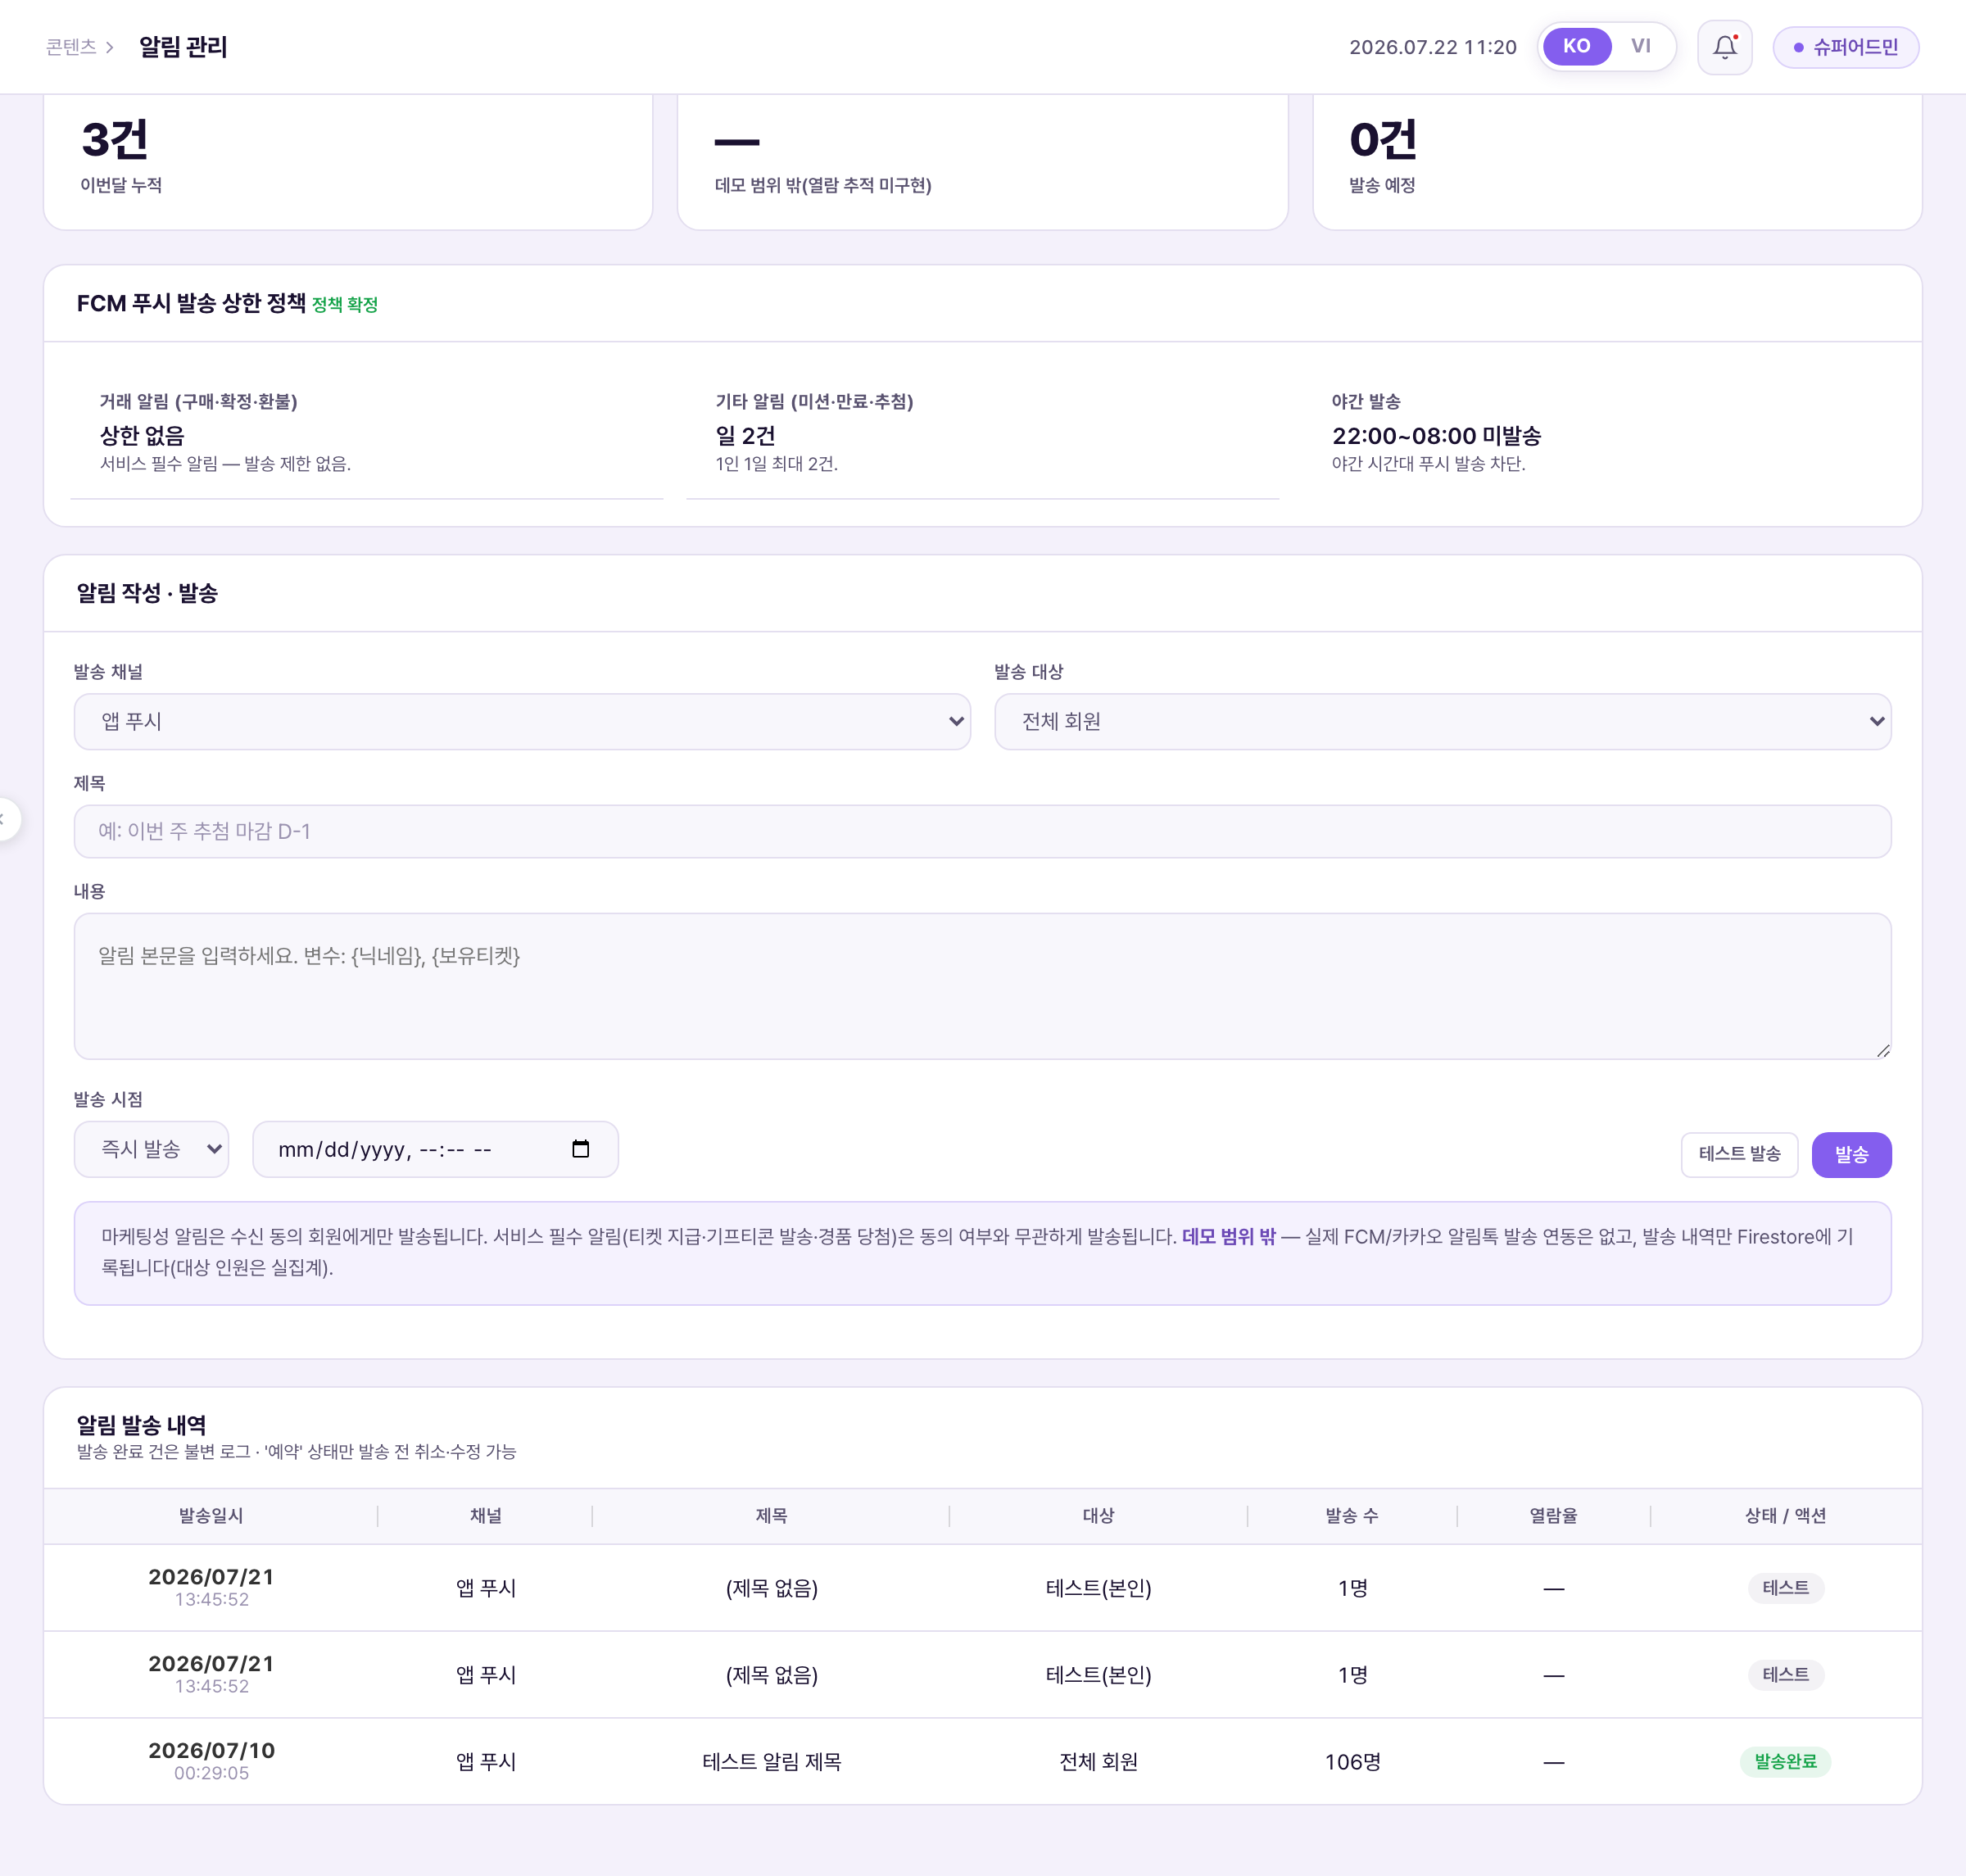
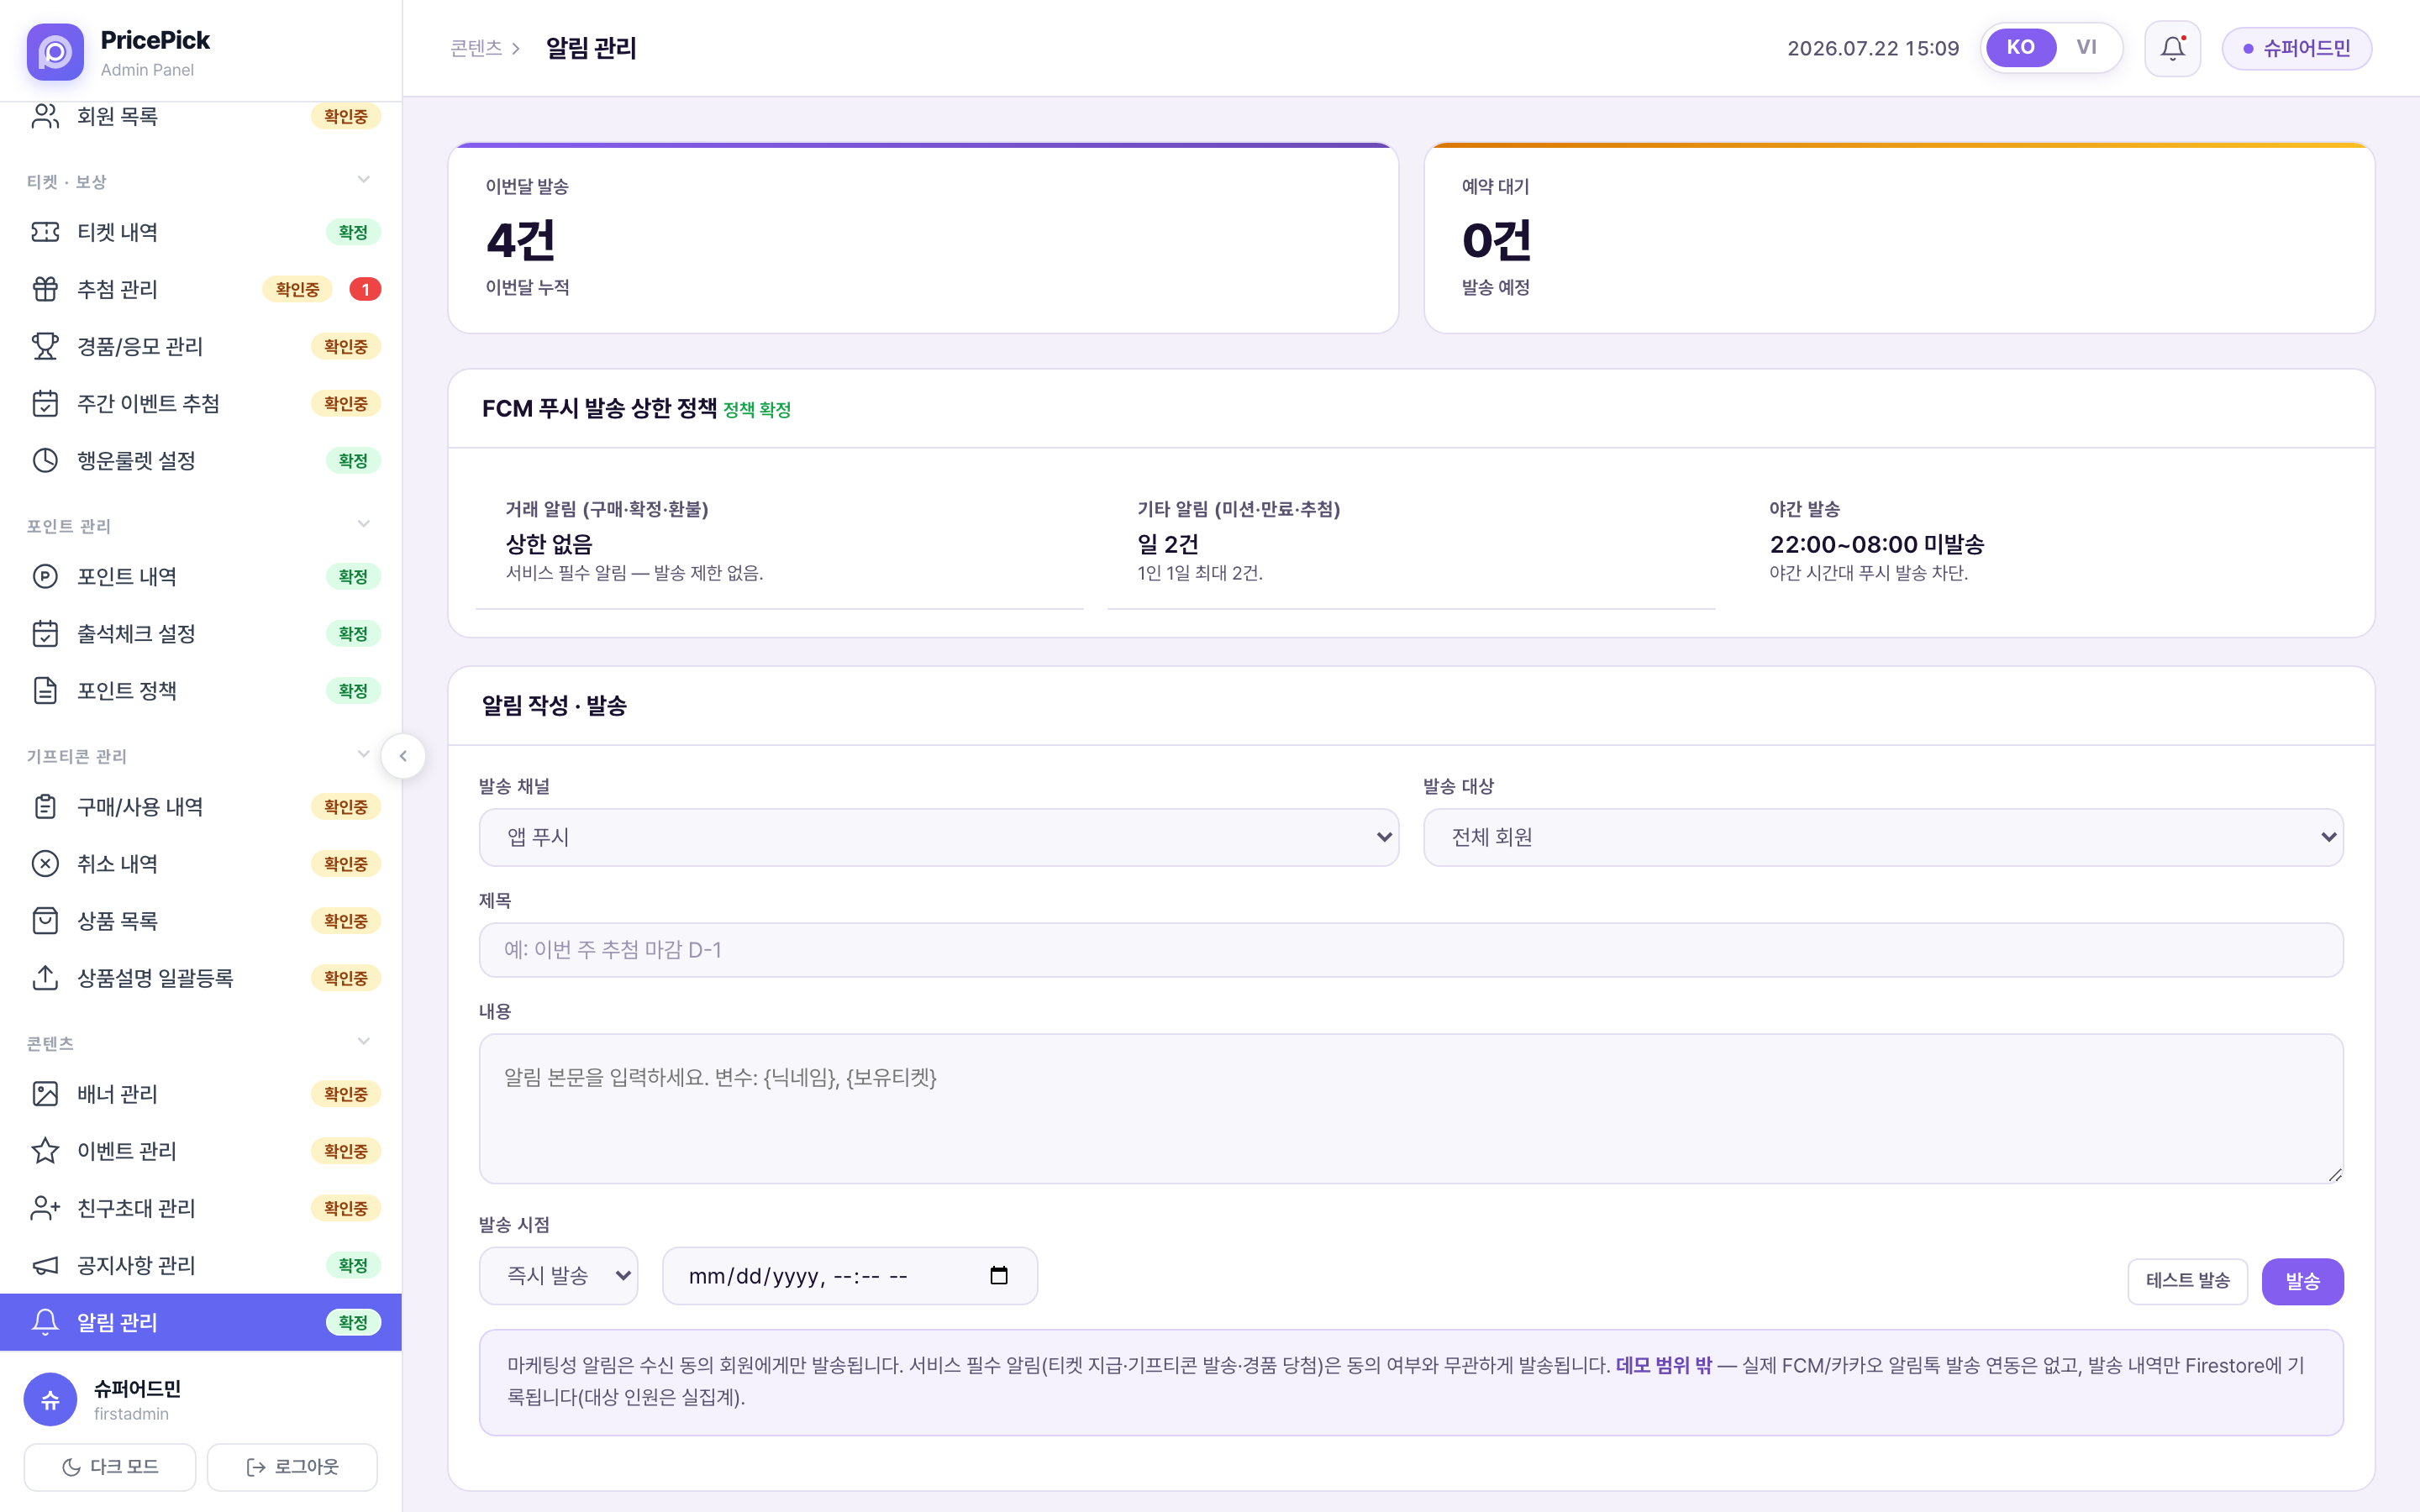
CMS notifications: test-send preview popup, remove open-rate stat card
- cms.html: add push-card-style preview modal shown when clicking
  테스트 발송 (title/body from the actual form fields), existing
  test-history record-keeping unchanged; remove 평균 열람율 stat card,
  remaining 2 cards laid out in a 2-column grid
- cms-storyboard/notifications.html updated to current-tense match:
  documents the new preview popup, rewrites the stale open-rate callout
  (card no longer exists on screen), re-captures both screenshots
  against the live demo (list view + preview popup)
- devqa/cms-harry-20260722.html: new Harry answer doc for these 2
  follow-up questions, registered in devqa/index.html (data-dev=harry)

diff --git a/devqa/cms-harry-20260722.html b/devqa/cms-harry-20260722.html
@@ -1,0 +1,75 @@
+<!DOCTYPE html><html lang="ko"><head><meta charset="utf-8"><meta name="viewport" content="width=device-width,initial-scale=1"><title>PricePick CMS 답변 · Harry · 2026-07-22</title><style>:root{--pp:#845EEE;--pp-d:#5b39b8;--pp-l:#efe9fd;--ink1:#1f2330;--ink2:#3f4658;--ink3:#8b93a7;--line:#e9e7f2;--bg:#faf9fe;--ok:#2f9e9e;--ck:#e8943a;--hold:#6b7280}
+*{box-sizing:border-box;margin:0;padding:0} body{font-family:-apple-system,'Apple SD Gothic Neo',Pretendard,sans-serif;color:var(--ink1);background:var(--bg);line-height:1.6}
+.wrap{max-width:940px;margin:0 auto;padding:0 22px 80px}
+header{background:linear-gradient(120deg,#845EEE,#6a45d4);color:#fff;padding:28px 0 24px;position:relative}
+.htitle{font-size:23px;font-weight:800} .hsub{font-size:13px;opacity:.85;margin-top:6px}
+.meta{display:flex;gap:10px;flex-wrap:wrap;margin:20px 0 6px;font-size:12.5px}
+.chip{background:#fff;border:1px solid var(--line);border-radius:20px;padding:5px 13px;color:var(--ink2)}
+h2.grp{font-size:14px;color:var(--pp-d);margin:24px 0 10px;padding-bottom:6px;border-bottom:2px solid var(--pp-l)}
+.qa{background:#fff;border:1px solid var(--line);border-radius:14px;padding:16px 18px;margin-bottom:12px}
+.qrow{display:flex;gap:10px;align-items:flex-start}
+.qno{font-weight:800;color:var(--pp);font-variant-numeric:tabular-nums;font-size:13px;background:var(--pp-l);padding:2px 8px;border-radius:6px;white-space:nowrap}
+.qtxt{font-weight:500;font-size:14px;color:var(--ink1);flex:1;white-space:pre-wrap}
+.bd{font-size:10.5px;font-weight:800;padding:3px 9px;border-radius:20px;white-space:nowrap}
+.bd.ok{background:#e6f5f5;color:var(--ok)}
+.bd.ck{background:#fdf1e3;color:var(--ck)}
+.bd.hold{background:#eef0f4;color:var(--hold)}
+.arow{display:flex;gap:10px;margin-top:11px;padding-top:11px;border-top:1px dashed var(--line)}
+.alabel{font-size:10.5px;font-weight:800;color:var(--ink3);background:var(--bg);border:1px solid var(--line);padding:2px 8px;border-radius:6px;height:fit-content;white-space:nowrap}
+.atxt{font-size:13.3px;color:var(--ink2);white-space:pre-wrap}
+.atxt b{color:var(--ink1)}
+.ref-box{background:#f4f5f8;border-left:3px solid #8b93a7;border-radius:8px;padding:9px 13px;margin-top:9px;font-size:12px;color:#3f4658}
+.ref-box .ref-label{font-size:10px;font-weight:800;color:#8b93a7;letter-spacing:.06em;margin-bottom:4px;display:block}
+.foot{margin-top:24px;font-size:11.5px;color:var(--ink3)}
+.vi{display:none}
+#langsw{position:absolute;opacity:0;pointer-events:none}
+#langsw:checked ~ header .ko, #langsw:checked ~ .wrap .ko{display:none}
+#langsw:checked ~ header .vi, #langsw:checked ~ .wrap .vi{display:inline}
+.langtog{display:inline-flex;background:rgba(255,255,255,.18);border-radius:20px;padding:3px;gap:2px;cursor:pointer;position:absolute;top:20px;right:22px}
+.langtog .seg{font-size:12px;font-weight:700;color:#fff;padding:4px 13px;border-radius:16px;opacity:.7}
+.langtog .sk{background:#fff;color:var(--pp-d);opacity:1}
+#langsw:checked ~ header .langtog .sk{background:none;color:#fff;opacity:.7}
+#langsw:checked ~ header .langtog .sv{background:#fff;color:var(--pp-d);opacity:1}
+.srclink{display:inline-block;margin-top:12px;font-size:12.5px;color:#fff;background:rgba(255,255,255,.18);padding:6px 13px;border-radius:8px;text-decoration:none;font-weight:600;cursor:pointer}
+.thumbs{display:flex;gap:8px;flex-wrap:wrap;margin-top:11px}
+.q-thumb{display:inline-flex;flex-direction:column;gap:5px;padding:6px;background:var(--bg);border:1px solid var(--line);border-radius:10px;cursor:zoom-in;max-width:200px;text-align:left}
+.q-thumb img{width:100%;border-radius:6px;display:block;border:1px solid var(--line)}
+.q-thumb-cap{font-size:10.5px;color:var(--ink3);font-weight:700}
+.lb{display:none;position:fixed;inset:0;z-index:200}
+.lb.open{display:block}
+.lb-bg{position:absolute;inset:0;background:rgba(31,35,48,.78)}
+.lb-card{position:relative;max-width:92vw;margin:6vh auto 0;display:flex;flex-direction:column;align-items:center}
+.lb-img{max-width:92vw;max-height:80vh;border-radius:12px;box-shadow:0 24px 70px rgba(0,0,0,.5);background:#fff}
+.lb-x{position:absolute;top:-44px;right:0;background:rgba(255,255,255,.2);border:none;color:#fff;width:34px;height:34px;border-radius:50%;font-size:22px;line-height:1;cursor:pointer;display:flex;align-items:center;justify-content:center}
+</style></head><body>
+<input type="checkbox" id="langsw">
+<header><label class="langtog" for="langsw"><span class="seg sk">KO</span><span class="seg sv">VI</span></label>
+<div class="wraphdr" style="max-width:940px;margin:0 auto;padding:0 22px"><div class="htitle"><span class="i18n"><span class="ko">PricePick CMS 답변 · Harry · 2026-07-22</span><span class="vi">Trả lời CMS PricePick · Harry · 2026-07-22</span></span></div>
+<div class="hsub"><span class="i18n"><span class="ko">Harry · CMS · 알림 관리 화면 후속 질문 2건 — 답변 KO/VI</span><span class="vi">Harry · CMS · 2 câu hỏi tiếp theo về màn Quản lý thông báo — Trả lời KO/VI</span></span></div>
+<a class="srclink" href="https://app.notion.com/p/PricePick-C-u-h-i-2026-07-22-2-3a586f66c22480a0aea6e09d6eca2777" target="_blank" rel="noopener"><span class="i18n"><span class="ko">원문 질문 보기 (Notion) ↗</span><span class="vi">Xem câu hỏi gốc (Notion) ↗</span></span></a></div></header>
+<div class="wrap"><div class="meta"><span class="chip"><span class="i18n"><span class="ko">질문 2건</span><span class="vi">2 câu hỏi</span></span></span><span class="chip"><span class="i18n"><span class="ko">확정 답변 2</span><span class="vi">Đã chốt 2</span></span></span><span class="chip"><span class="i18n"><span class="ko">근거: 김반장님 확정</span><span class="vi">Căn cứ: Mr Mark đã chốt</span></span></span><span class="chip"><span class="i18n"><span class="ko">질문 문구는 요약 · 원문은 노션 링크</span><span class="vi">Câu hỏi ở đây là bản tóm tắt · nguyên văn xem link Notion</span></span></span></div>
+
+<!-- ==================== Q1 : 테스트 발송 미리보기 팝업 ==================== -->
+<h2 class="grp"><span class="i18n"><span class="ko">1. 테스트 발송 — 미리보기 UI 제안</span><span class="vi">1. Gửi thử — Đề xuất UI xem trước</span></span></h2>
+
+<div class="qa"><div class="qrow"><span class="qno">1</span><div class="qtxt"><span class="i18n"><span class="ko">테스트 발송한 내용을 관리자가 확인할 수 있는 CMS 팝업 UI가 필요하지 않을까요?</span><span class="vi">Có cần một popup UI trên CMS để admin xem lại nội dung đã gửi thử không?</span></span></div><span class="bd ok"><span class="i18n"><span class="ko">확정</span><span class="vi">Đã chốt</span></span></span></div>
+<div class="thumbs"><button class="q-thumb" type="button" onclick="lbOpen('/devqa/assets/20260722-harry-2/harry-q1-notif-mgmt.png','알림 관리 화면 · 평균 오픈율 카드·테스트 발송 버튼')"><img src="/devqa/assets/20260722-harry-2/harry-q1-notif-mgmt.png" alt="알림 관리 화면 평균 오픈율 카드·테스트 발송 버튼 강조" onerror="this.closest('.q-thumb').style.display='none'"><span class="q-thumb-cap"><span class="i18n"><span class="ko">알림 관리 화면 · 평균 오픈율 카드·테스트 발송 버튼</span><span class="vi">Màn Quản lý thông báo · Thẻ tỷ lệ mở·nút gửi thử</span></span></span></button></div>
+<div class="arow"><span class="alabel"><span class="i18n"><span class="ko">답변</span><span class="vi">Trả lời</span></span></span><div class="atxt"><span class="i18n"><span class="ko">수용합니다. 테스트 발송 버튼을 클릭하면 입력한 제목·내용이 <b>실제 수신 모습(푸시 카드 형태)</b>으로 표시되는 미리보기 팝업이 CMS에 뜹니다. 발송 이력에 남는 '테스트' 기록은 그대로 유지됩니다. 실기기로의 실제 발송은 정식 FCM 연동 이후에 붙는 부분입니다.</span><span class="vi">Chấp nhận đề xuất. Khi bấm nút gửi thử, CMS hiện popup xem trước cho thấy tiêu đề·nội dung đã nhập <b>ở dạng hiển thị thực tế (dạng thẻ push)</b>. Bản ghi 'Test' trong lịch sử gửi vẫn được giữ nguyên như cũ. Gửi thật đến thiết bị sẽ được nối sau khi tích hợp FCM chính thức.</span></span>
+<div class="ref-box"><span class="ref-label"><span class="i18n"><span class="ko">[참조]</span><span class="vi">[Tham khảo]</span></span></span><span class="i18n"><span class="ko">화면 반영: CMS 원본(cms.html)·데모(pricepick-demo/cms) 양쪽 '알림 관리' 화면의 '테스트 발송' 버튼에 미리보기 팝업(KO/VI) 구현 완료.</span><span class="vi">Đã phản ánh lên màn hình: đã triển khai popup xem trước (KO/VI) ở nút 'Gửi thử' trên màn Quản lý thông báo, cả CMS gốc (cms.html) lẫn demo (pricepick-demo/cms).</span></span></div></div></div></div>
+
+<!-- ==================== Q2 : 평균 오픈율 통계 ==================== -->
+<h2 class="grp"><span class="i18n"><span class="ko">2. "평균 오픈율" 통계란</span><span class="vi">2. Thống kê "Tỷ lệ mở trung bình" là gì</span></span></h2>
+
+<div class="qa"><div class="qrow"><span class="qno">2</span><div class="qtxt"><span class="i18n"><span class="ko">상단의 "평균 오픈율" 통계 카드는 무엇을 뜻하나요?</span><span class="vi">Thẻ thống kê "Tỷ lệ mở trung bình" ở trên nghĩa là gì?</span></span></div><span class="bd ok"><span class="i18n"><span class="ko">확정</span><span class="vi">Đã chốt</span></span></span></div>
+<div class="arow"><span class="alabel"><span class="i18n"><span class="ko">답변</span><span class="vi">Trả lời</span></span></span><div class="atxt"><span class="i18n"><span class="ko">발송한 푸시를 수신자가 <b>실제로 열어본 비율의 평균</b>을 뜻하는 지표입니다. 다만 오픈 추적은 1단계 구현 범위에서 제외하며, 혼란 방지를 위해 이 통계 카드는 화면에서 제거합니다(추후 열람 추적 기능이 들어오면 다시 추가).</span><span class="vi">Đây là chỉ số thể hiện <b>tỷ lệ trung bình người nhận thực sự mở</b> push đã gửi. Tuy nhiên theo dõi lượt mở nằm ngoài phạm vi triển khai giai đoạn 1, nên để tránh gây nhầm lẫn, thẻ thống kê này được bỏ khỏi màn hình (sẽ thêm lại khi có chức năng theo dõi lượt mở).</span></span>
+<div class="ref-box"><span class="ref-label"><span class="i18n"><span class="ko">[참조]</span><span class="vi">[Tham khảo]</span></span></span><span class="i18n"><span class="ko">화면 반영: CMS 원본·데모 양쪽에서 "평균 열람율" 카드 제거, 남은 통계 카드("이번달 발송"·"예약 대기") 2열 레이아웃으로 정리 완료. 발송 내역 표의 "열람율" 열은 그대로 유지(항상 "—" 표시, 별도 요청 없어 손대지 않음).</span><span class="vi">Đã phản ánh lên màn hình: bỏ thẻ "Tỷ lệ xem trung bình" ở cả CMS gốc lẫn demo, 2 thẻ thống kê còn lại ("Gửi tháng này"·"Đặt lịch chờ") đã sắp lại bố cục 2 cột. Cột "Tỷ lệ xem" trong bảng lịch sử gửi vẫn giữ nguyên (luôn hiện "—", không có yêu cầu riêng nên chưa động vào).</span></span></div></div></div></div>
+
+<div class="foot"><span class="i18n"><span class="ko">PricePick · CMS 답변 · Harry · 2026-07-22 · 확정 2 / 확인 필요 0</span><span class="vi">PricePick · Trả lời CMS · Harry · 2026-07-22 · Đã chốt 2 / Cần xác nhận 0</span></span></div></div>
+<div class="lb" id="lightbox" role="dialog" aria-modal="true" aria-label="첨부 이미지"><div class="lb-bg" data-lbclose></div><div class="lb-card"><button class="lb-x" type="button" data-lbclose aria-label="Close">&times;</button><img class="lb-img" id="lb-img" src="" alt=""></div></div>
+<script>
+function lbOpen(src,alt){var lb=document.getElementById('lightbox');var im=document.getElementById('lb-img');im.src=src;im.alt=alt||'';lb.classList.add('open');document.body.style.overflow='hidden';}
+function lbClose(){var lb=document.getElementById('lightbox');lb.classList.remove('open');document.getElementById('lb-img').src='';document.body.style.overflow='';}
+document.getElementById('lightbox').addEventListener('click',function(e){if(e.target.hasAttribute('data-lbclose'))lbClose();});
+document.addEventListener('keydown',function(e){if(e.key==='Escape'&&document.getElementById('lightbox').classList.contains('open'))lbClose();});
+</script>
+</body></html>

diff --git a/cms.html b/cms.html
@@ -390,6 +390,13 @@ tr:hover td{background:var(--surface-2);}
 .modal-close:hover{color:var(--text);background:var(--surface-2);}
 .modal-body{padding:20px 22px;}
 .modal-footer{padding:14px 22px;border-top:1px solid var(--border);display:flex;gap:10px;justify-content:flex-end;}
+.push-preview{background:var(--surface);border:1px solid var(--border);border-radius:var(--r-lg);padding:14px 16px;box-shadow:var(--shadow-md);max-width:360px;margin:0 auto;}
+.push-preview-app{display:flex;align-items:center;gap:8px;margin-bottom:8px;}
+.push-preview-icon{width:20px;height:20px;border-radius:6px;background:var(--main);color:#fff;font-size:11px;font-weight:800;display:flex;align-items:center;justify-content:center;flex-shrink:0;}
+.push-preview-appname{font-size:12px;font-weight:700;color:var(--text-2);text-transform:uppercase;letter-spacing:.3px;}
+.push-preview-time{font-size:11px;color:var(--text-3);margin-left:auto;}
+.push-preview-title{font-size:14px;font-weight:700;color:var(--text);margin-bottom:3px;}
+.push-preview-body{font-size:13px;color:var(--text-2);line-height:1.5;white-space:pre-wrap;}
 .form-group{margin-bottom:14px;}
 .form-row{display:grid;grid-template-columns:1fr 1fr;gap:12px;}
 .form-label{font-size:11px;font-weight:700;color:var(--text-2);margin-bottom:5px;display:block;text-transform:uppercase;letter-spacing:.4px;}
@@ -1992,9 +1999,8 @@ tr.manual-edited td { background:rgba(254,243,199,0.15); }
     </div>
 
     <div class="section" id="sec-notifications">
-      <div class="stats-grid" style="grid-template-columns:repeat(3,1fr)">
+      <div class="stats-grid" style="grid-template-columns:repeat(2,1fr)">
         <div class="stat-card purple"><div class="stat-label">이번달 발송</div><div class="stat-value">42건</div><div class="stat-change">푸시 31 · 알림톡 11</div></div>
-        <div class="stat-card green"><div class="stat-label">평균 열람율</div><div class="stat-value">31.4%</div><div class="stat-change">↑ 전월 +2.1%p</div></div>
         <div class="stat-card amber"><div class="stat-label">예약 대기</div><div class="stat-value">2건</div><div class="stat-change neutral">발송 예정</div></div>
       </div>
       <div class="card">
@@ -2022,11 +2028,11 @@ tr.manual-edited td { background:rgba(254,243,199,0.15); }
           </div>
           <div style="margin-bottom:14px">
             <label style="font-size:11px;color:var(--text-2);font-weight:600;display:block;margin-bottom:6px;text-transform:uppercase;letter-spacing:.4px">제목</label>
-            <input class="search-box" style="width:100%" placeholder="예: 이번 주 추첨 마감 D-1">
+            <input class="search-box" id="noti-title-input" style="width:100%" placeholder="예: 이번 주 추첨 마감 D-1">
           </div>
           <div style="margin-bottom:14px">
             <label style="font-size:11px;color:var(--text-2);font-weight:600;display:block;margin-bottom:6px;text-transform:uppercase;letter-spacing:.4px">내용</label>
-            <textarea class="terms-editor" style="min-height:90px" placeholder="알림 본문을 입력하세요. 변수: {닉네임}, {보유티켓}"></textarea>
+            <textarea class="terms-editor" id="noti-body-input" style="min-height:90px" placeholder="알림 본문을 입력하세요. 변수: {닉네임}, {보유티켓}"></textarea>
           </div>
           <div style="display:flex;align-items:flex-end;gap:14px;flex-wrap:wrap">
             <div>
@@ -2035,7 +2041,7 @@ tr.manual-edited td { background:rgba(254,243,199,0.15); }
             </div>
             <input type="datetime-local" class="search-box" style="width:auto">
             <div style="margin-left:auto;display:flex;gap:8px">
-              <button class="btn btn-ghost btn-sm" onclick="toast('테스트 발송 (본인)')">테스트 발송</button>
+              <button class="btn btn-ghost btn-sm" onclick="notiPreviewTest()">테스트 발송</button>
               <button class="btn btn-primary" onclick="toast('알림이 발송 큐에 등록되었습니다.')">발송</button>
             </div>
           </div>
@@ -3065,6 +3071,31 @@ tr.manual-edited td { background:rgba(254,243,199,0.15); }
     <div class="modal-footer">
       <button class="btn btn-ghost" onclick="closeModal('m-ticket-manual')">취소</button>
       <button class="btn btn-primary" onclick="toast('처리되었습니다.');closeModal('m-ticket-manual')">처리하기</button>
+    </div>
+  </div>
+</div>
+
+<!-- ── 모달: 알림 테스트 발송 미리보기 ── -->
+<div class="modal-overlay" id="m-noti-preview">
+  <div class="modal" style="width:420px">
+    <div class="modal-header">
+      <div class="modal-title">테스트 발송 미리보기</div>
+      <button class="modal-close" onclick="closeModal('m-noti-preview')"><svg viewBox="0 0 24 24" width="16" height="16" fill="none" stroke="currentColor" stroke-width="2"><line x1="18" y1="6" x2="6" y2="18"/><line x1="6" y1="6" x2="18" y2="18"/></svg></button>
+    </div>
+    <div class="modal-body">
+      <div class="info-box">실제 수신 시 보이는 모습과 동일한 형태입니다. 본인 계정으로만 발송됩니다.</div>
+      <div class="push-preview">
+        <div class="push-preview-app">
+          <div class="push-preview-icon">P</div>
+          <div class="push-preview-appname">PricePick</div>
+          <div class="push-preview-time">지금</div>
+        </div>
+        <div class="push-preview-title" id="noti-preview-title">이번 주 추첨 마감 D-1</div>
+        <div class="push-preview-body" id="noti-preview-body">지금 참여하면 브론즈 등급 이상 회원 전원 응모 가능해요.</div>
+      </div>
+    </div>
+    <div class="modal-footer">
+      <button class="btn btn-primary" onclick="closeModal('m-noti-preview')">확인</button>
     </div>
   </div>
 </div>
@@ -4140,6 +4171,16 @@ function toggleGroup(id) {
 
 function openModal(id) { document.getElementById(id).classList.add('open'); }
 function closeModal(id) { document.getElementById(id).classList.remove('open'); }
+function notiPreviewTest() {
+  var titleEl = document.getElementById('noti-title-input');
+  var bodyEl = document.getElementById('noti-body-input');
+  var title = (titleEl && titleEl.value.trim()) || '(제목 없음)';
+  var body = (bodyEl && bodyEl.value.trim()) || '(내용 없음)';
+  document.getElementById('noti-preview-title').textContent = title;
+  document.getElementById('noti-preview-body').textContent = body;
+  openModal('m-noti-preview');
+  toast('테스트 발송 (본인)');
+}
 
 function openAccountEdit(name, email, role) {
   document.getElementById('ae-name').value = name;
@@ -5617,6 +5658,7 @@ Object.assign(KO2VI,{"거르는 기준은 “거래유형” 하나":"Tiêu chí
 /* ── i18n 보강 (2026-07-21 재질문 답변 반영) — 공지사항 관리·탈퇴 정책 UI 변경 ── */
 Object.assign(KO2VI,{"공지 수정":"Sửa thông báo","고정 정책 — 운영자가 수정할 수 없습니다.":"Chính sách cố định — quản trị viên không thể sửa.","공지를 삭제했습니다.":"Đã xóa thông báo.","공지가 수정되었습니다.":"Thông báo đã được sửa.","5/15(금) 새벽 2시~4시 서버 정기 점검이 진행됩니다. 점검 시간 중에는 앱 이용이 제한됩니다.":"Bảo trì định kỳ máy chủ diễn ra từ 2 giờ đến 4 giờ sáng thứ Sáu 5/15. Trong thời gian bảo trì, việc sử dụng ứng dụng sẽ bị hạn chế."});
 Object.assign(KO2VI,{"답변하기":"Trả lời","답변 수정":"Sửa câu trả lời","문의를 삭제했습니다.":"Đã xóa hỏi đáp.","작성자":"Người viết","작성일":"Ngày viết","미확인":"Chưa xác nhận"});
+Object.assign(KO2VI,{"테스트 발송 미리보기":"Xem trước gửi thử","실제 수신 시 보이는 모습과 동일한 형태입니다. 본인 계정으로만 발송됩니다.":"Đây là hình thức giống hệt lúc nhận thực tế. Chỉ được gửi đến tài khoản của chính bạn.","지금":"Bây giờ","지금 참여하면 브론즈 등급 이상 회원 전원 응모 가능해요.":"Tham gia ngay bây giờ thì tất cả hội viên hạng Đồng trở lên đều có thể ứng tuyển."});
 
 
   var _orig=new Map(), _tracked=new Set(), _applying=false;

diff --git a/cms-storyboard/notifications.html b/cms-storyboard/notifications.html
@@ -93,8 +93,9 @@ code{font-family:'SF Mono',Menlo,monospace;font-size:11.5px;background:var(--bg)
   <tr><td><b><span class="i18n"><span class="ko">발송 대상</span><span class="vi">Đối tượng gửi</span></span></b></td><td><span class="i18n"><span class="ko">전체 회원 / 카카오 연동 회원 / 미연동(게스트) 회원 / 30일 미접속 / 신규 가입(7일 이내) / 구매 이력 있는 회원</span><span class="vi">Toàn bộ / liên kết Kakao / khách chưa liên kết / 30 ngày không vào / mới đăng ký (trong 7 ngày) / đã từng mua hàng</span></span></td><td><span class="i18n"><span class="ko">선택한 대상 인원 수를 실제로 집계해서 발송 수에 반영(확인됨) — 다만 실제 발송 자체는 아래 6번 참고</span><span class="vi">Đếm thật số người thuộc đối tượng đã chọn và phản ánh vào số lượng gửi (đã xác nhận) — nhưng việc gửi thật thì xem mục 6 bên dưới</span></span></td></tr>
   <tr><td><b><span class="i18n"><span class="ko">제목 · 내용</span><span class="vi">Tiêu đề · Nội dung</span></span></b></td><td><span class="i18n"><span class="ko">알림 문구. 내용에 {{닉네임}}, {{보유티켓}} 같은 변수 사용 가능</span><span class="vi">Nội dung push. Có thể dùng biến như {{닉네임}} (biệt danh), {{보유티켓}} (vé sở hữu) trong nội dung</span></span></td><td><span class="i18n"><span class="ko">제목·내용 중 하나라도 비우면 발송 자체가 막힘</span><span class="vi">Để trống một trong tiêu đề·nội dung thì không gửi được</span></span></td></tr>
   <tr><td><b><span class="i18n"><span class="ko">발송 시점</span><span class="vi">Thời điểm gửi</span></span></b></td><td><span class="i18n"><span class="ko">즉시 발송 / 예약 발송</span><span class="vi">Gửi ngay / Gửi theo lịch</span></span></td><td><span class="i18n"><span class="ko">예약 선택 시 날짜·시간을 반드시 입력해야 하며, 비우면 "예약 발송 시각을 입력하세요" 경고와 함께 막힘</span><span class="vi">Chọn theo lịch thì bắt buộc nhập ngày giờ, để trống sẽ bị chặn với cảnh báo "Nhập thời điểm gửi theo lịch"</span></span></td></tr>
-  <tr><td><b><span class="i18n"><span class="ko">테스트 발송</span><span class="vi">Gửi thử</span></span></b></td><td><span class="i18n"><span class="ko">전체 대상이 아니라 로그인한 관리자 본인에게만 발송</span><span class="vi">Chỉ gửi cho chính admin đang đăng nhập, không gửi cho toàn đối tượng</span></span></td><td><span class="i18n"><span class="ko">발송 내역에 대상 "테스트(본인)", 상태 "테스트"로 남음 — 실제 회원에게는 나가지 않음</span><span class="vi">Ghi lại trong lịch sử với đối tượng "Test(bản thân)", trạng thái "Test" — không đến tay hội viên thật</span></span></td></tr>
+  <tr><td><b><span class="i18n"><span class="ko">테스트 발송</span><span class="vi">Gửi thử</span></span></b></td><td><span class="i18n"><span class="ko">전체 대상이 아니라 로그인한 관리자 본인에게만 발송. 클릭하면 입력한 제목·내용이 실제 수신 모습(푸시 카드 형태)으로 보이는 미리보기 팝업이 뜬다</span><span class="vi">Chỉ gửi cho chính admin đang đăng nhập, không gửi cho toàn đối tượng. Khi bấm sẽ hiện popup xem trước dạng thẻ push, cho thấy tiêu đề·nội dung đã nhập trông như lúc nhận thật</span></span></td><td><span class="i18n"><span class="ko">발송 내역에 대상 "테스트(본인)", 상태 "테스트"로 남음 — 실제 회원에게는 나가지 않음</span><span class="vi">Ghi lại trong lịch sử với đối tượng "Test(bản thân)", trạng thái "Test" — không đến tay hội viên thật</span></span></td></tr>
 </table>
+<div class="shot"><img src="img/notifications-test-preview.png" alt="테스트 발송 미리보기 팝업 — 실제 CMS 데모 캡처 (2026-07-22)" loading="lazy"><div class="cap"><span class="i18n"><span class="ko">테스트 발송 미리보기 팝업 — 실제 CMS 데모 캡처 (2026-07-22)</span><span class="vi">Popup xem trước gửi thử — chụp thực tế từ CMS demo (2026-07-22)</span></span></div></div>
 
 <h2 class="sec"><span class="i18n"><span class="ko">3. FCM 푸시 발송 상한 정책 — 마음대로 여러 번 못 보낸다</span><span class="vi">3. Chính sách giới hạn gửi FCM — Không thể gửi tùy ý nhiều lần</span></span></h2>
 <table>
@@ -124,7 +125,7 @@ code{font-family:'SF Mono',Menlo,monospace;font-size:11.5px;background:var(--bg)
 
 <h2 class="sec"><span class="i18n"><span class="ko">6. 데모의 범위 — 실제 발송은 안 나간다</span><span class="vi">6. Phạm vi demo — Không thực sự gửi ra ngoài</span></span></h2>
 <div class="callout warn"><div class="tt"><span class="i18n"><span class="ko">불가(데모 범위 밖) — 실제 FCM·카카오 알림톡 연동 없음</span><span class="vi">Không thể (ngoài phạm vi demo) — chưa nối FCM·Kakao AlimTalk thật</span></span></div><span class="i18n"><span class="ko">화면 안내 문구 그대로입니다: "데모 범위 밖 — 실제 FCM/카카오 알림톡 발송 연동은 없고, 발송 내역만 Firestore에 기록됩니다(대상 인원은 실집계)." 즉 "발송" 버튼을 눌러도 실제로 회원 휴대폰에 푸시가 뜨지는 않습니다. 대신 대상 인원 집계·발송 이력 기록은 실제 데이터로 정확히 동작합니다(확인됨).</span><span class="vi">Nguyên văn trên màn hình: "Ngoài phạm vi demo — chưa nối FCM/Kakao AlimTalk thật, chỉ ghi log gửi vào Firestore (số đối tượng là đếm thật)." Tức bấm nút "Gửi" cũng không thật sự hiện push trên điện thoại hội viên. Nhưng việc đếm đối tượng·ghi lịch sử gửi vẫn chạy chính xác trên dữ liệu thật (đã xác nhận).</span></span></div>
-<div class="callout"><div class="tt"><span class="i18n"><span class="ko">열람율은 데모 범위 밖</span><span class="vi">Tỷ lệ xem nằm ngoài phạm vi demo</span></span></div><span class="i18n"><span class="ko">상단 통계의 "평균 열람율"은 화면에 "—"(데모 범위 밖, 열람 추적 미구현)로 표시됩니다. 실서비스 전환 시 FCM 연동과 함께 열람 추적(오픈율) 로직도 별도 구축이 필요합니다.</span><span class="vi">Thẻ thống kê "Tỷ lệ xem trung bình" hiện "—" (ngoài phạm vi demo, chưa xây dựng theo dõi lượt xem). Khi chuyển sang dịch vụ thật cần xây riêng logic theo dõi lượt xem (tỷ lệ mở) cùng với việc nối FCM thật.</span></span></div>
+<div class="callout"><div class="tt"><span class="i18n"><span class="ko">오픈율(열람율) 카드는 화면에 없다</span><span class="vi">Không có thẻ tỷ lệ mở (tỷ lệ xem) trên màn hình</span></span></div><span class="i18n"><span class="ko">상단 통계 카드는 "이번달 발송"·"예약 대기" 2개뿐이다. 오픈 추적은 1단계 구현 범위에서 제외돼 혼란을 막기 위해 통계 카드 자체를 뺐다(추후 열람 추적 기능이 들어오면 다시 추가). 발송 내역 표의 "열람율" 열은 남아 있으며 값은 항상 "—"로 표시된다.</span><span class="vi">Thẻ thống kê ở trên chỉ còn 2 cái — "Gửi tháng này"·"Đặt lịch chờ". Theo dõi lượt mở nằm ngoài phạm vi triển khai giai đoạn 1 nên đã bỏ hẳn thẻ thống kê để tránh gây nhầm lẫn (sẽ thêm lại khi có chức năng theo dõi lượt xem). Cột "Tỷ lệ xem" trong bảng lịch sử gửi vẫn còn, giá trị luôn hiện "—".</span></span></div>
 
 <div class="foot"><span class="i18n"><span class="ko">PricePick · CMS 설명서</span><span class="vi">PricePick · Tài liệu CMS</span></span> · <span class="i18n"><span class="ko">개발자용 문서</span><span class="vi">Tài liệu dành cho dev</span></span></div>
 </div>

diff --git a/devqa/index.html b/devqa/index.html
@@ -100,6 +100,8 @@ header{background:linear-gradient(120deg,#845EEE,#6a45d4);color:#fff;padding:34p
 <button class="devtab" type="button" data-dev="kelvin" role="tab" aria-selected="false">Kelvin</button>
 <button class="devtab" type="button" data-dev="john" role="tab" aria-selected="false">John</button>
 </div>
+<div class="rowwrap" data-dev="harry"><a class="row" href="/devqa/cms-harry-20260722.html"><div class="rmain"><div class="rt">CMS 질문 답변 · Harry <span class="rvi">/ Giải đáp câu hỏi CMS · Harry</span></div><div class="rwho">Harry · CMS · 알림 관리 — 테스트 발송 미리보기 팝업 추가·평균 오픈율 카드 제거</div></div><div class="rdate">2026-07-22</div><div class="rarrow">&rsaquo;</div></a>
+<a class="srcnotion" href="https://app.notion.com/p/PricePick-C-u-h-i-2026-07-22-2-3a586f66c22480a0aea6e09d6eca2777" target="_blank" rel="noopener">&#128206; 원문 질문 (Notion) &#8599;</a></div>
 <div class="rowwrap" data-dev="common"><a class="row" href="/devqa/api-coupang-20260722.html"><div class="rmain"><div class="rt">API 답변 · 쿠팡 파트너스 <span class="rvi">/ Trả lời API · Coupang Partners</span><span class="devbadge">공통 · Chung</span></div><div class="rwho">쿠팡 파트너스 테스트 API 공유 안내(ddaynet 대행사) · 데모 적용 가능 범위 · 개발자 문의 3건(API 출처·Developer 계정·Sandbox)</div></div><div class="rdate">2026-07-22</div><div class="rarrow">&rsaquo;</div></a></div>
 <div class="rowwrap" data-dev="vin"><a class="row" href="/devqa/cms-vin-20260722.html"><div class="rmain"><div class="rt">CMS 질문 답변 · Vin <span class="rvi">/ Giải đáp câu hỏi CMS · Vin</span></div><div class="rwho">Vin · CMS · 앱 버전 관리 &gt; 버전 히스토리 정의·행 추가 시점·관리자명 표시 여부</div></div><div class="rdate">2026-07-22</div><div class="rarrow">&rsaquo;</div></a>
 <a class="srcnotion" href="https://app.notion.com/p/QA-CMS-2026-07-22-3a5b92a109648061a564cf475d4f52b2" target="_blank" rel="noopener">&#128206; 원문 질문 (Notion) &#8599;</a></div>